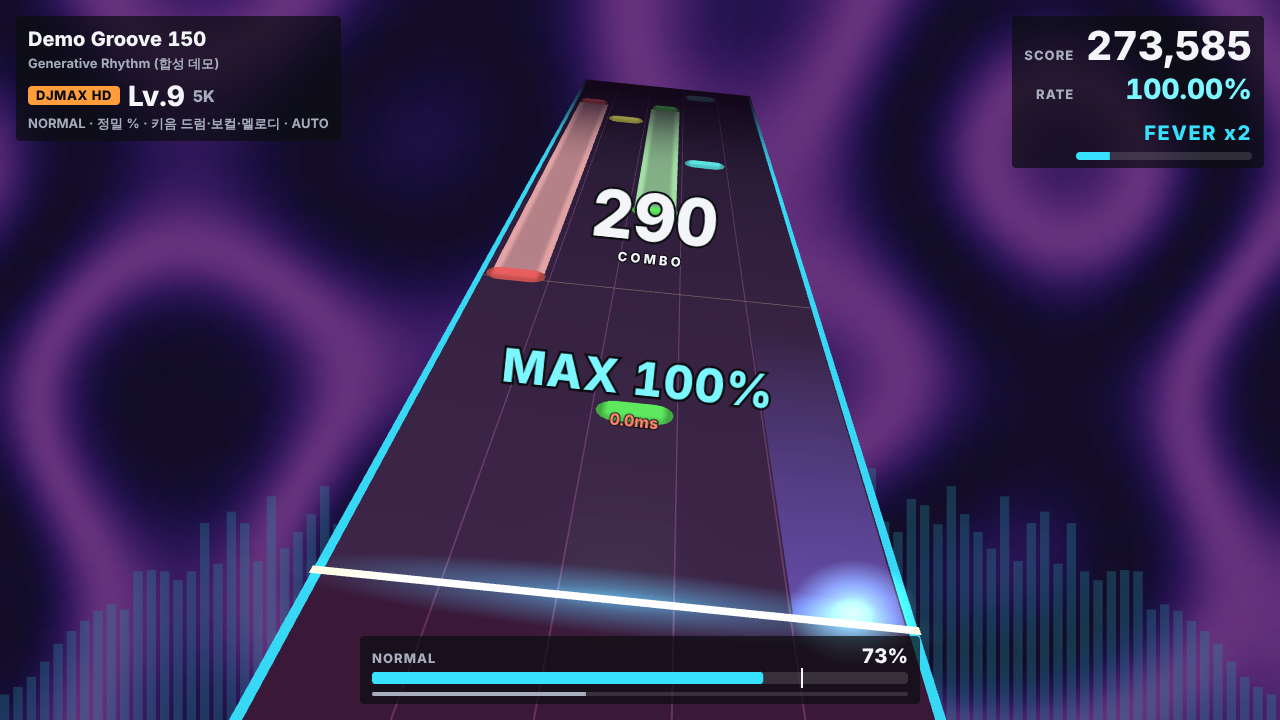
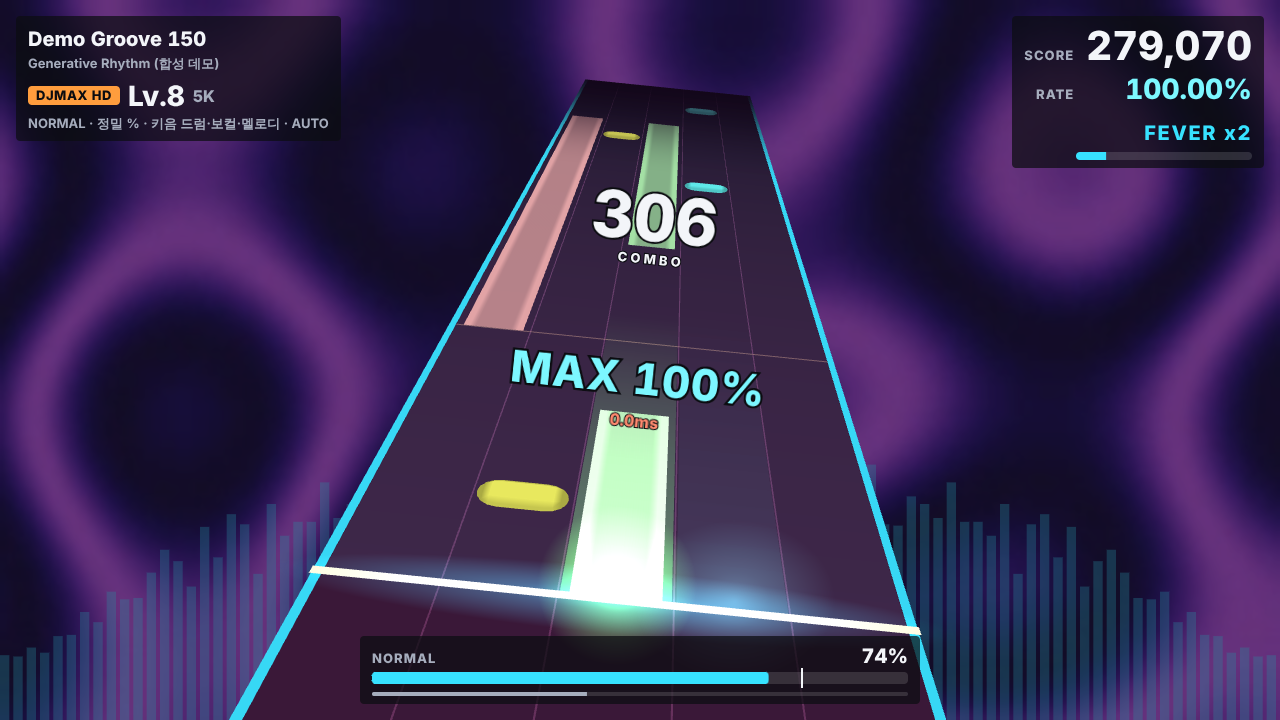
Preview a minute of the song; draw long notes without end caps
The song select preview now plays a minute of the highlight instead of
20 seconds. When the song ends sooner, it fades out before the end
rather than cutting off.

Long notes are now just the body. The note-shaped caps on the start and
end read as extra tap notes. The body's near edge is the press and its
far edge the release.

Claude-Session: https://claude.ai/code/session_01UknEaCGNo4CuJ2Lwvtgahg

diff --git a/client/src/audio/songPreview.ts b/client/src/audio/songPreview.ts
@@ -1,5 +1,5 @@
 /** The highlight played on the song select screen: it loops this long from the preview point. */
-export const PREVIEW_LENGTH_MS = 20000;
+export const PREVIEW_LENGTH_MS = 60000;
 const FADE_IN_MS = 1000;
 const FADE_OUT_MS = 1500;
 /** Leaving the song (another song, a play) fades the preview out this fast. */
@@ -12,15 +12,22 @@ export function previewEnvelope(t: number, lengthMs: number = PREVIEW_LENGTH_MS)
   return Math.min(1, t / FADE_IN_MS, (lengthMs - t) / FADE_OUT_MS);
 }
 
+/** How long the highlight from `startMs` plays: PREVIEW_LENGTH_MS, or up to the song's end if that comes first. */
+export function previewLength(durationMs: number, startMs: number): number {
+  if (!Number.isFinite(durationMs) || durationMs <= startMs) return PREVIEW_LENGTH_MS;
+  return Math.min(PREVIEW_LENGTH_MS, durationMs - startMs);
+}
+
 /**
- * The song preview: the highlight from `startMs` fades in, plays PREVIEW_LENGTH_MS, fades out and
- * starts again (also when the song ends first). `stop` fades it out quickly.
+ * The song preview: the highlight from `startMs` fades in, plays PREVIEW_LENGTH_MS (fading out
+ * before the song's end when that comes first) and starts again. `stop` fades it out quickly.
  */
 export class SongPreview {
   private readonly audio: HTMLAudioElement;
   private readonly startS: number;
   private readonly volume: number;
   private readonly timer: number;
+  private lengthMs = PREVIEW_LENGTH_MS;
   private stopping: { at: number; from: number } | null = null;
 
   constructor(url: string, startMs: number, volume: number) {
@@ -28,7 +35,10 @@ export class SongPreview {
     this.volume = volume;
     this.audio = new Audio(url);
     this.audio.volume = 0;
-    this.audio.addEventListener('loadedmetadata', () => this.restart());
+    this.audio.addEventListener('loadedmetadata', () => {
+      this.lengthMs = previewLength(this.audio.duration * 1000, startMs);
+      this.restart();
+    });
     this.audio.addEventListener('ended', () => this.restart());
     this.timer = window.setInterval(() => this.tick(), TICK_MS);
   }
@@ -55,8 +65,8 @@ export class SongPreview {
     }
     if (this.audio.paused) return;
     const t = (this.audio.currentTime - this.startS) * 1000;
-    if (t >= PREVIEW_LENGTH_MS) this.restart();
-    else this.audio.volume = this.volume * previewEnvelope(t);
+    if (t >= this.lengthMs) this.restart();
+    else this.audio.volume = this.volume * previewEnvelope(t, this.lengthMs);
   }
 
   private finish(): void {

diff --git a/client/src/render/TrackRenderer.ts b/client/src/render/TrackRenderer.ts
@@ -319,24 +319,24 @@ export class TrackRenderer {
       const tailZ = Math.max(-L, z(n.endT));
       const state = n.broken ? 'missed' : held ? 'held' : 'idle';
       const bodyColor = n.broken ? MISSED_COLOR : color;
+      // Only the body: its near edge is the press and its far edge the release. Note-shaped caps
+      // on the ends read as extra tap notes.
       if (headZ > tailZ) {
         const body = this.bodyPool.next();
         body.material = this.bodyMaterial(bodyColor, state);
         body.scale.set(lane.width * HOLD_BODY_WIDTH, 1, headZ - tailZ);
         body.position.set(lane.x, 0.02, (headZ + tailZ) / 2);
       }
-      if (!n.headDone || held || n.broken) this.placeNote(lane.x, lane.width, headZ, bodyColor, height);
-      if (tailZ > -L) this.placeNote(lane.x, lane.width * 0.8, tailZ, bodyColor, height, 0.6);
     }
     this.notePool.end();
     this.bodyPool.end();
     this.updateHoldGlows(frame);
   }
 
-  private placeNote(x: number, laneWidth: number, z: number, color: number, height: number, depthScale = 1): void {
+  private placeNote(x: number, laneWidth: number, z: number, color: number, height: number): void {
     const mesh = this.notePool.next();
     mesh.material = this.noteMaterial(color);
-    mesh.scale.set(laneWidth * 0.9, height, NOTE_DEPTH * depthScale);
+    mesh.scale.set(laneWidth * 0.9, height, NOTE_DEPTH);
     mesh.position.set(x, height / 2, z);
   }
 

diff --git a/client/src/audio/songPreview.test.ts b/client/src/audio/songPreview.test.ts
@@ -1,5 +1,5 @@
 import { describe, expect, it } from 'vitest';
-import { PREVIEW_LENGTH_MS, previewEnvelope } from './songPreview';
+import { PREVIEW_LENGTH_MS, previewEnvelope, previewLength } from './songPreview';
 
 describe('song preview', () => {
   it('fades the highlight in, holds it and fades it out before it loops', () => {
@@ -11,5 +11,15 @@ describe('song preview', () => {
     expect(previewEnvelope(PREVIEW_LENGTH_MS)).toBe(0);
     // a highlight shorter than both fades never reaches full volume
     expect(previewEnvelope(1000, 2000)).toBeCloseTo(2 / 3);
+  });
+
+  it('plays a minute of the highlight, or fades out before the song ends when that comes first', () => {
+    expect(PREVIEW_LENGTH_MS).toBe(60000);
+    expect(previewLength(240000, 50000)).toBe(PREVIEW_LENGTH_MS);
+    expect(previewLength(180000, 150000)).toBe(30000);
+    expect(previewEnvelope(30000 - 750, previewLength(180000, 150000))).toBeCloseTo(0.5);
+    // length not known (yet): the full minute
+    expect(previewLength(Number.NaN, 50000)).toBe(PREVIEW_LENGTH_MS);
+    expect(previewLength(Number.POSITIVE_INFINITY, 50000)).toBe(PREVIEW_LENGTH_MS);
   });
 });

diff --git a/docs/ARCHITECTURE.md b/docs/ARCHITECTURE.md
@@ -107,6 +107,7 @@
 - 레인 커버: SUDDEN+(먼 쪽) · HIDDEN+(판정선 쪽)는 노트·롱노트·마디선 재질에 공유 클리핑 평면 두 개를 걸어 정확히 잘라내고, 그 위에 커버 판과 경계선을 그린다. LIFT는 판정선·키 빔·이펙트를 위로 옮기고 판정선 아래를 덮는다. 플레이 중 단축키로 바꾸면 클리핑 평면 상수만 움직인다(재컴파일 없음). "녹색 숫자 유지"를 켜면 커버·LIFT를 움직일 때 배속을 다시 계산해 녹색 숫자를 유지한다.
 - FEVER 중에는 트랙에 배율별 색(x2 하늘 · x3 초록 · x4 노랑 · x5 분홍)을 더하고 레일·판정선 빛을 같은 색으로 바꾼다. "번쩍임 줄이기"는 맥동·타격 이펙트·키 빔을 약하게 한다. 색각 보정 팔레트(Okabe–Ito)는 레인·판정 색을 함께 바꾼다.
 - 트랙 끝은 안개(fog)로 자연스럽게 사라지고, 레인 구분선·마디선으로 원근 속에서도 박을 읽기 쉽게 한다.
+- 롱노트는 몸통만 그린다. 가까운 끝이 누를 시각, 먼 끝이 뗄 시각이고, 누르는 동안은 몸통이 판정선에서 시작한다. 양 끝에 노트 모양을 붙이면 단노트로 읽혀 붙이지 않는다.
 - 노트·롱노트 몸통·마디선은 오브젝트 풀에서 꺼내 쓰고, 화면에 보이는 구간만 갱신한다.
 - 판정·콤보 텍스트는 트랙 위 3D 지점을 화면 좌표로 투영해 DOM HUD로 그린다. 카메라 연출이 켜져 있으면 매 프레임 현재 카메라(기울기·줌)로 다시 투영하고, 트랙이 기운 만큼 글자도 같이 돌린다.
 - **카메라 연출**(`render/cameraFx.ts`): 채보의 tilt는 이전 기울기에서 새 값으로 smoothstep으로 옮겨 가 유지하고, zoom은 (1 − 진행률)²로 감쇠하는 펄스다. 매 프레임 기본 카메라 자세(쿼터니언·FOV)에 roll(최대 7°)과 FOV 축소(최대 7%)를 얹는다. 세기는 설정값(0–1, "번쩍임 줄이기"면 절반)을 곱한다. 수치는 `config/camera.json`의 `fx`.
